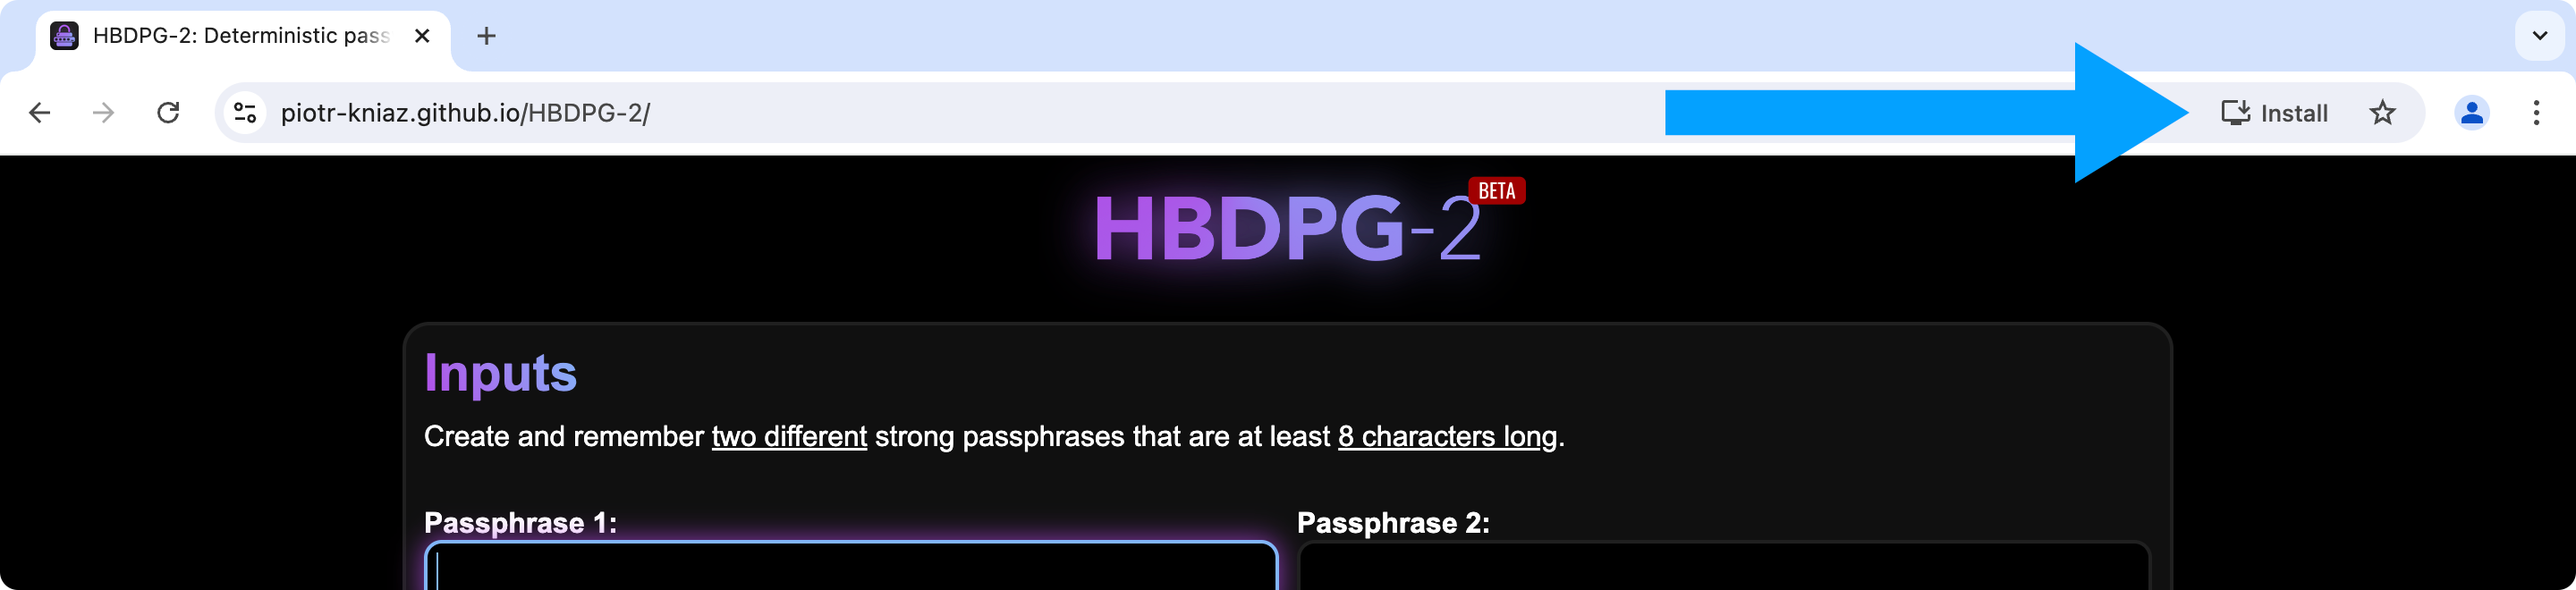
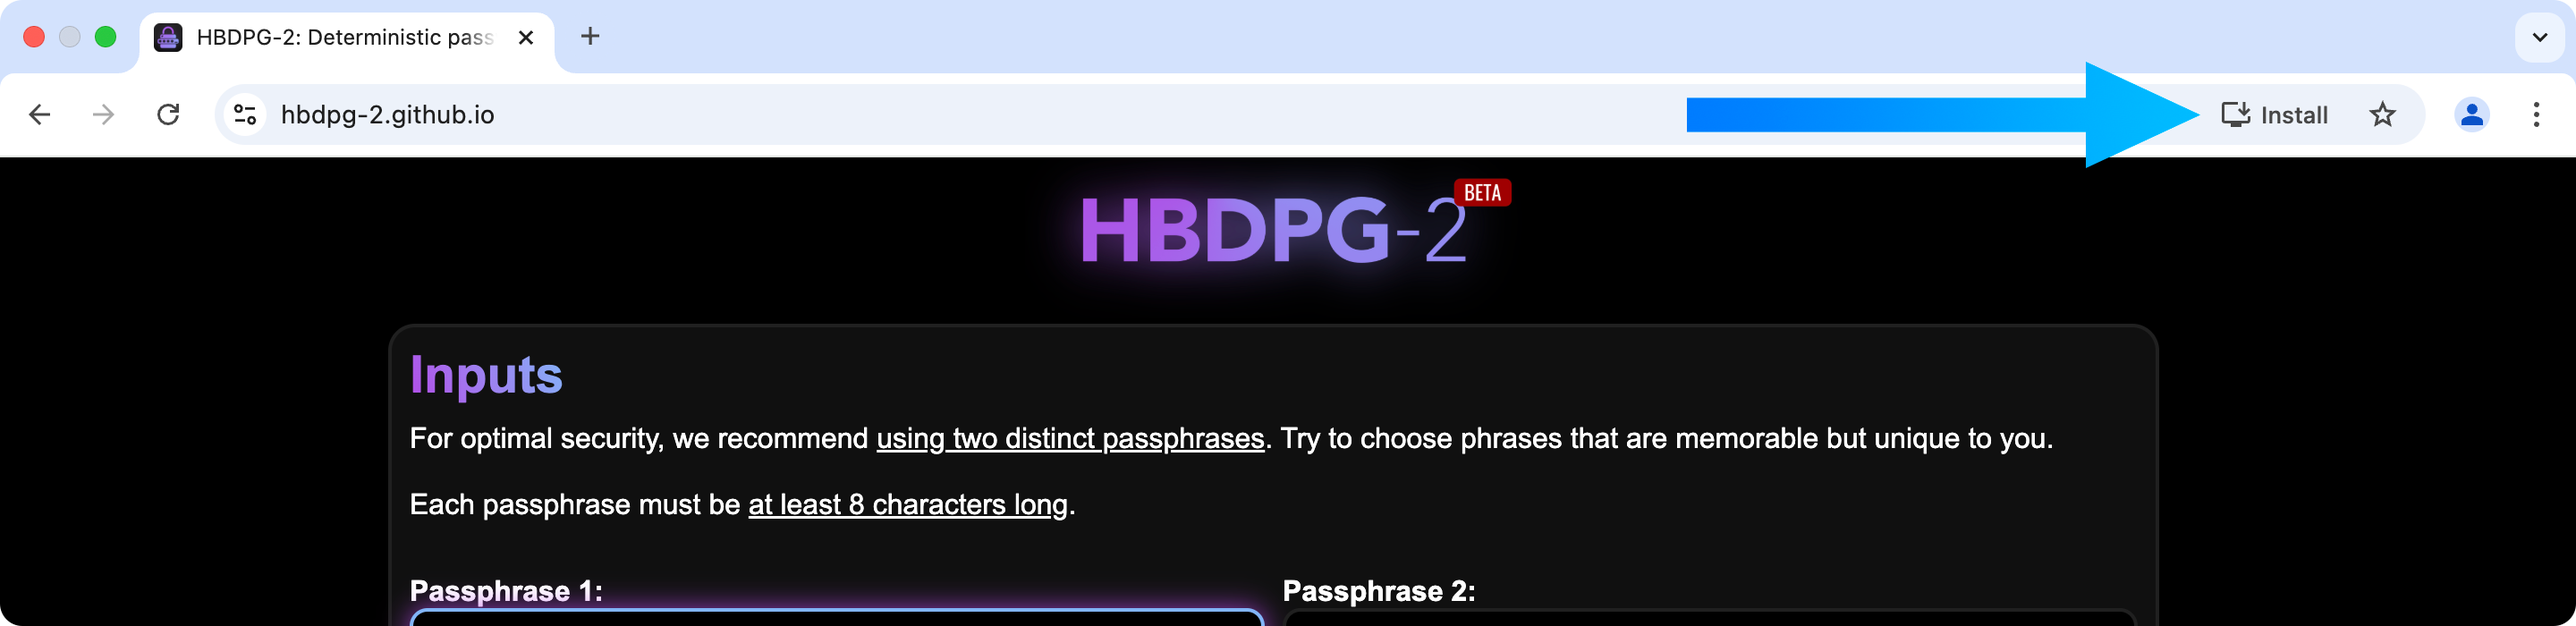
Update README, update main page

diff --git a/index.html b/index.html
@@ -94,7 +94,7 @@
             <div class="blocks">
                 <strong class="blockTitles">Inputs</strong><br>
 
-                <span>For optimal security, we recommend <u>using two distinct passphrases</u>. 
+                <span>For optimal security, <u>use two distinct passphrases</u>. 
                     Try to choose phrases that are memorable but unique to you.</span><br><br>
                 <span>Each passphrase must be <u>at least 8 characters long</u>.</span><br>
 

diff --git a/serviceworker.js b/serviceworker.js
@@ -6,7 +6,7 @@
     Licensed under the MIT License. See LICENSE file in the project root for details.
 */
 
-const CACHE_VERSION = 'v20241215-1';
+const CACHE_VERSION = 'v20241217-0';
 // const CACHE_VERSION = 'v1-debug';
 
 const ASSETS = [

diff --git a/README.md b/README.md
@@ -13,10 +13,10 @@
 * [About](#about)
 * [Getting started](#getting-started)
     * [Run in browser](#run-in-browser)
-    * [Install application](#install-application-recommended) **(recommended)**
-    * [Run locally via Live Server](#run-locally-via-live-server-for-developers-and-advanced-users) (for developers and advanced users)
+    * [Install application](#install-application-recommended) ***(recommended)***
+    * [Run locally via Live Server](#run-locally-via-live-server-for-developers-and-advanced-users) *(for developers and advanced users)*
 * [Usage](#usage)
-* [Advanced features](#advanced-features)
+* [Settings](#settings)
     * [Password length](#password-length)
     * [Custom Character Tables](#custom-character-tables) *(will be added later)*
 * [Built-in security features](#built-in-security-features)
@@ -68,7 +68,7 @@ You can install HBDPG-2 as Progressive Web App to have quick access from your Ho
     * On Android (Chrome): `Menu` => `Add to Home screen` => `Install`
 3. Now you can use HBDPG-2 without opening your browser!
 
-### Run locally via Live Server (for developers and advanced users)
+### Run locally via Live Server *(for developers and advanced users)*
 
 HBDPG-2 uses WebAssembly, which does not work if you just open `index.html` as a file in the browser. If you want to run HBDPG-2 locally, follow these steps:
 
@@ -88,7 +88,7 @@ Probably, Content Security Policy will interfere with locally running. If you en
 
 ## Usage
 
-To generate a password, you must use two passphrases that are at least 8 characters long. **Use strong passphrases** to make brute-force attacks more difficult. You can also use "Advanced features" to enhance security.
+To generate a password, you must use two passphrases that are at least 8 characters long. **Use strong passphrases** to make brute-force attacks more difficult. You can also use "[Settings](#settings)" to enhance security and castomize your result.
 
 Generation is resource-intensive process that takes up to 15 seconds on average, but on some low-performance devices it can take a few minutes.
 
@@ -96,7 +96,7 @@ After using the generated password, **click the `Clear` button** so that your pa
 
 
 
-## Advanced features
+## Settings
 
 **Warning!** Changing these parameters affects the generation! **Remember your changes** to get the same password next time.
 
@@ -129,7 +129,7 @@ You can choose the password length from three types:
 
 The main risk of using HBDPG-2 is the ability of an attacker to brute-force simple and popular passphrases to find out your password.
 
-**Do not use weak and short passphrases!**
+**Do not use weak and short passphrases!** For optimal security, use **two distinct passphrases**. This helps ensure that even if one passphrase is compromised, your generated password remain secure. Try to choose phrases that are memorable but unique to you.
 
 **Do not use HBDPG-2 on untrusted or compromised devices!**
 
